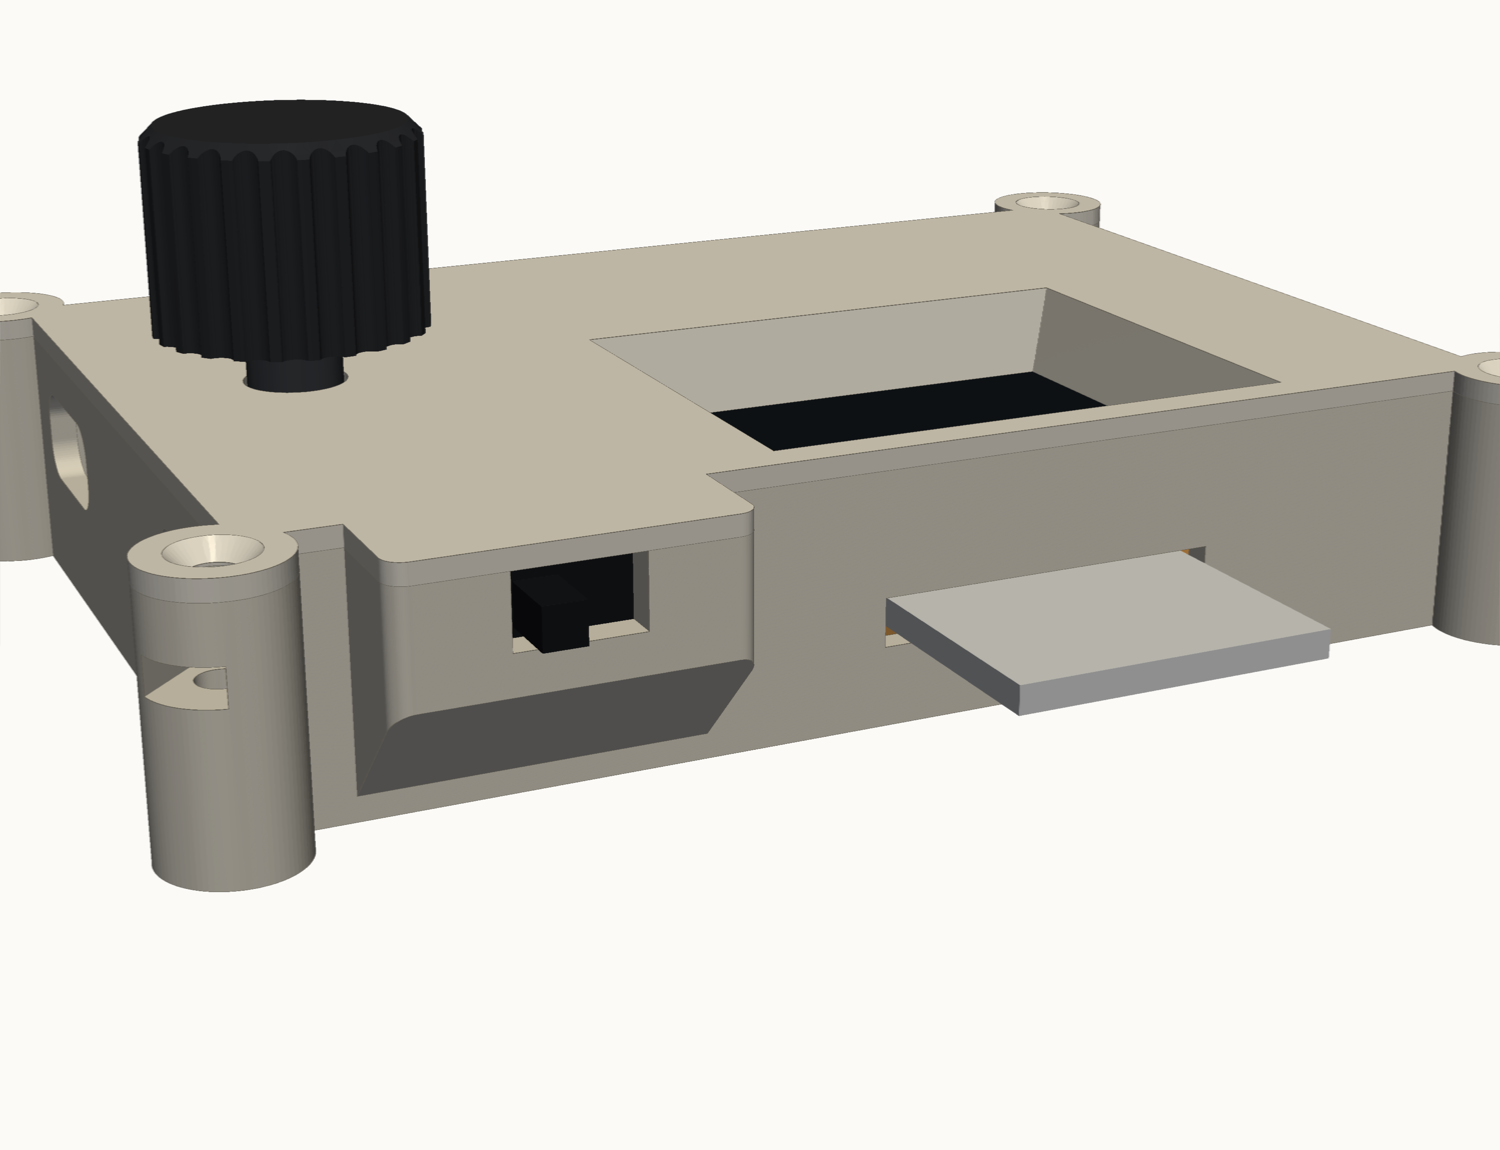
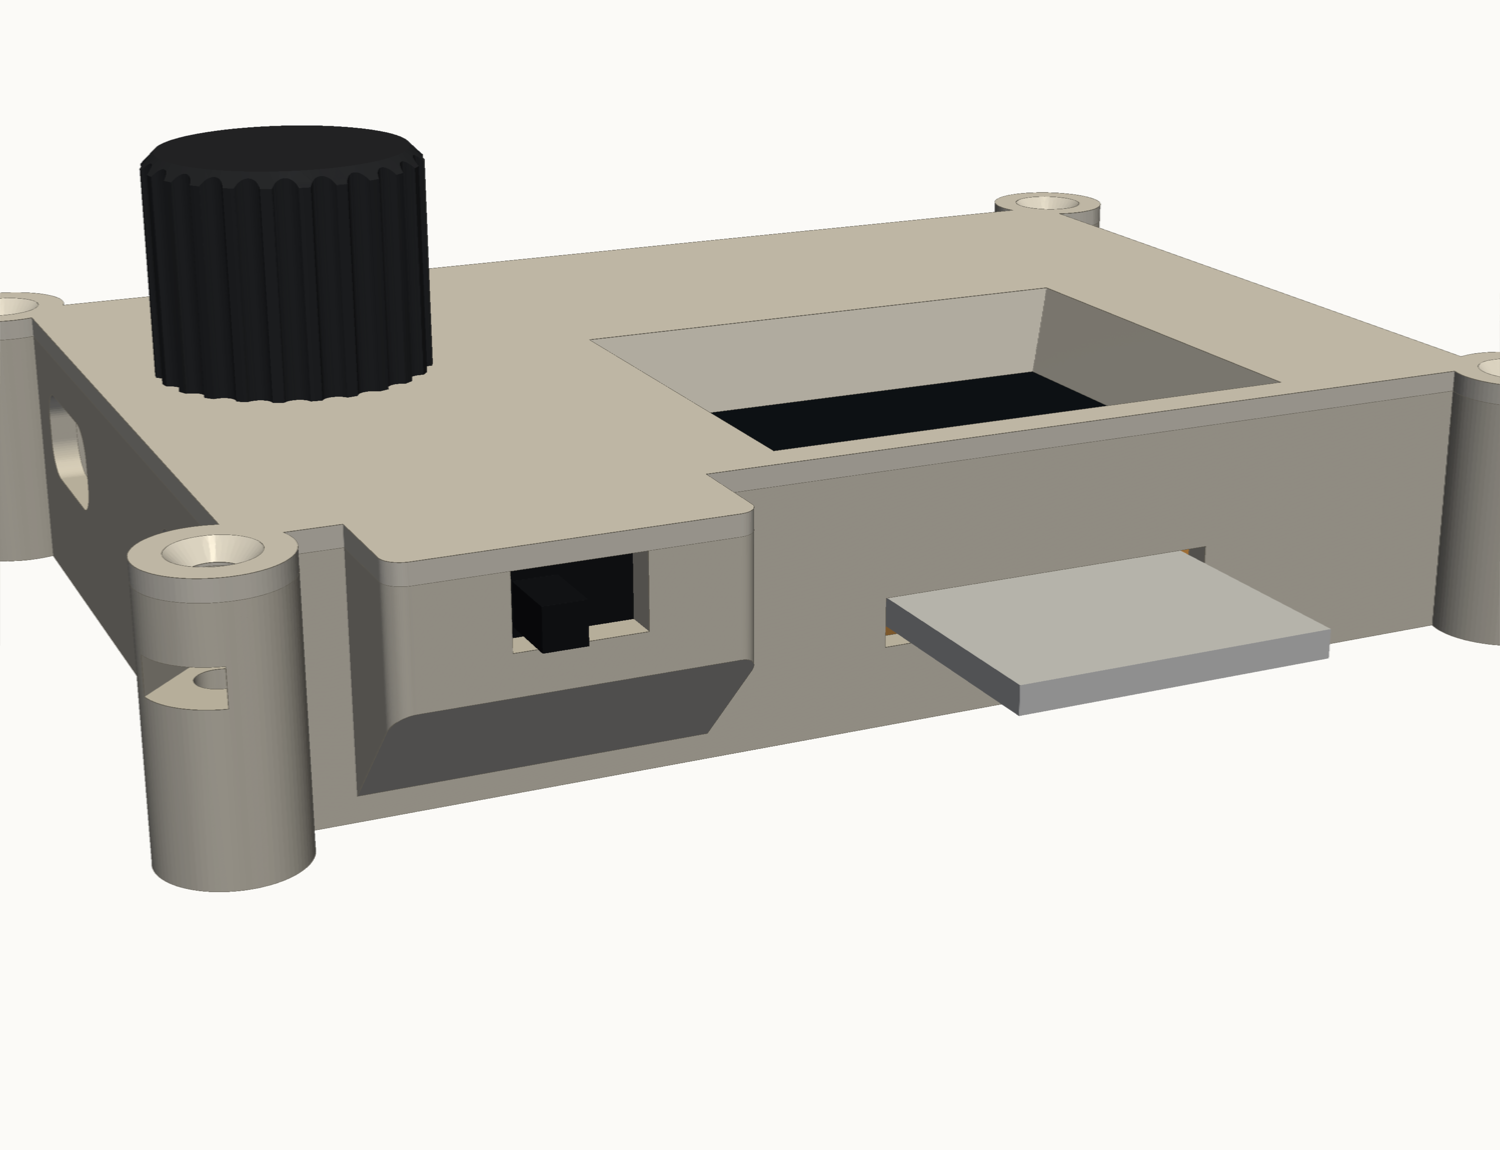
Case knob: bore and height from the measured shaft
Shaft tip is 15 mm above the lid with 2 mm of bush; the flat is only on the
upper half, so the bore is round below it.

Changed region(s): [[0.092, 0.2739, 0.3067, 0.3652], [0.092, 0.0609, 0.276, 0.1522]]

diff --git a/hardware/case/paata_case.py b/hardware/case/paata_case.py
@@ -157,10 +157,13 @@ def dummies():
     }
 
 
-KNOB_R, KNOB_H = 10.0, 15.0           # owner asked for a 10 mm radius
-SHAFT_D, SHAFT_FLAT, SHAFT_TOP = 6.0, 4.5, ENC_BODY_Z + 20.0   # standard KY-040 D-shaft, not measured on this part
-BUSH_D, BUSH_H = 7.0, 7.0             # threaded bush, also the standard figures
-KNOB_BORE = 13.5                      # from the knob's underside to where the shaft end stops
+KNOB_R, KNOB_GAP = 10.0, 1.0          # owner asked for a 10 mm radius; gap between knob and lid
+SHAFT_OUT, BUSH_OUT = 15.0, 2.0       # above the 1.5 mm lid: shaft tip, and the threaded bush (owner, 2026-11-16)
+SHAFT_D, SHAFT_FLAT = 6.0, 4.5        # 4.5 across the flat measured; 6.0 is the standard figure
+FLAT_LEN = 6.5                        # the flat is on the upper half of the shaft only (about 7, read from a photo)
+BUSH_D = 6.9                          # measured
+KNOB_BORE = SHAFT_OUT - KNOB_GAP      # the shaft tip stops against the end of the bore
+KNOB_H = KNOB_BORE + 2.0
 
 
 def knob_part():
@@ -171,14 +174,16 @@ def knob_part():
         k -= Rot(0, 0, i * 15) * Pos(KNOB_R + 0.4, 0, KNOB_H / 2) * Cylinder(1.0, KNOB_H + 2)
     r = SHAFT_D / 2 + 0.1
     bore = Pos(0, 0, KNOB_BORE / 2) * Cylinder(r, KNOB_BORE)
-    bore -= Pos(SHAFT_FLAT + 0.2 - r + 5, 0, KNOB_BORE / 2) * Box(10, 10, KNOB_BORE + 1)   # the flat
+    z0 = KNOB_BORE - FLAT_LEN                                             # round below this, D-shaped above
+    bore -= Pos(SHAFT_FLAT + 0.2 - r + 5, 0, z0 + FLAT_LEN / 2 + 0.5) * Box(10, 10, FLAT_LEN + 1)
     k -= bore
-    k -= Pos(0, 0, 1.75) * Cylinder(BUSH_D / 2 + 1.0, 3.5)                # clears the bush above the lid
+    rec = BUSH_OUT - KNOB_GAP + 1.2                                       # clears the bush, with room for the push
+    k -= Pos(0, 0, rec / 2) * Cylinder(BUSH_D / 2 + 0.8, rec)
     return k
 
 
 def knob():
-    return Pos(ENC_X, ENC_Y, SHAFT_TOP - KNOB_BORE) * knob_part()
+    return Pos(ENC_X, ENC_Y, ZTOP + LID + KNOB_GAP) * knob_part()
 
 
 def render():
@@ -230,7 +235,6 @@ if __name__ == "__main__":
         export_stl(part, str(OUT / name), tolerance=0.02)
     export_stl(Rot(180, 0, 0) * lid(), str(OUT / "lid.stl"), tolerance=0.02)      # print orientation: outside face on the bed
     export_stl(Rot(180, 0, 0) * knob_part(), str(OUT / "knob.stl"), tolerance=0.01)   # prints top face down, bore open upwards
-    print("knob underside is", round(SHAFT_TOP - KNOB_BORE - ZTOP - LID, 1), "mm above the lid")
     bb, lb = base().bounding_box(), lid().bounding_box()
     print("base", [round(v, 1) for v in (bb.size.X, bb.size.Y, bb.size.Z)], "lid", [round(v, 1) for v in (lb.size.X, lb.size.Y, lb.size.Z)])
     render()

diff --git a/.claude/CLAUDE.md b/.claude/CLAUDE.md
@@ -169,10 +169,12 @@ Board is built and wired (2026-11-15). Owner's caliper readings of the finished 
   Lid plate is 1.5 mm thick (was 2.0; owner, 2026-11-16) so that a clear filament shows
   the charger and ESP32 lights; case is 20.0 tall. `hardware/case/transparency_coupons.py`
   makes 2.0 / 1.5 / 1.0 mm test plates for judging a clear filament.
-  Knob (2026-11-16): `knob.stl`, 10 mm radius (owner's figure), 15 tall, push fit on the
-  D-shaft, printed top face down. Shaft and bush sizes in the model are the standard
-  KY-040 figures (6 mm shaft, 4.5 across the flat, 20 above the body, 7 mm bush), not
-  measured; first print not yet tried on the encoder.
+  Knob (2026-11-16): `knob.stl`, 10 mm radius (owner's figure), 16 tall, push fit on the
+  D-shaft, printed top face down, 1 mm above the lid. Owner's readings: shaft tip 15 above
+  the 1.5 mm lid, of which 2 is threaded bush and 13 is shaft; 4.5 across the flat; 6.9
+  (taken as the bush thread; shaft assumed 6.0). The flat is only on the upper half of the
+  shaft (about 7, read from a photo), so the bore is round below and D-shaped for the top
+  6.5. Not yet tried on the encoder.
   Support-free printing (2026-11-15): base prints floor down, lid prints outside face down
   (`lid.stl` is exported in that orientation). Pod underside is a real 45° slope (it was
   missing from the model before), slider slot is open to the top, jack hole has a 45°
